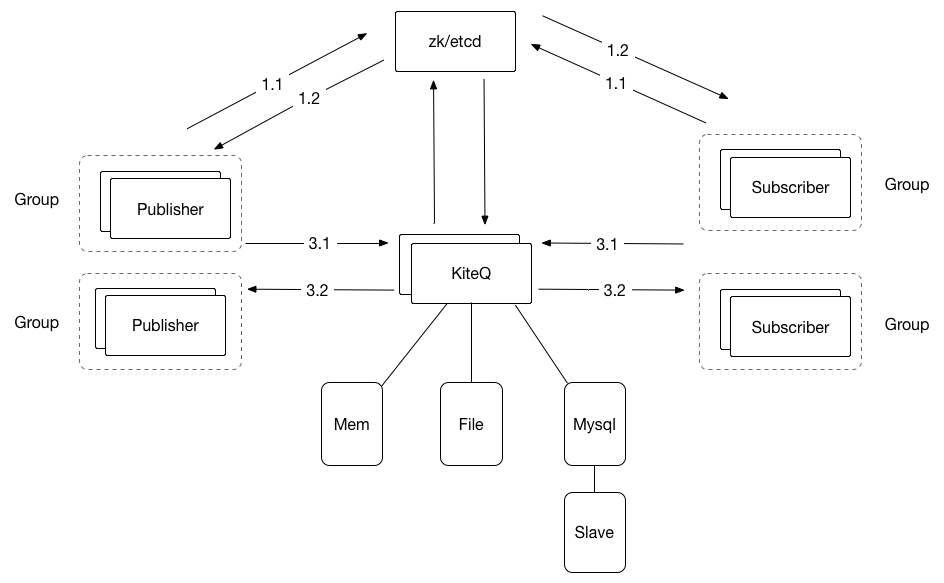
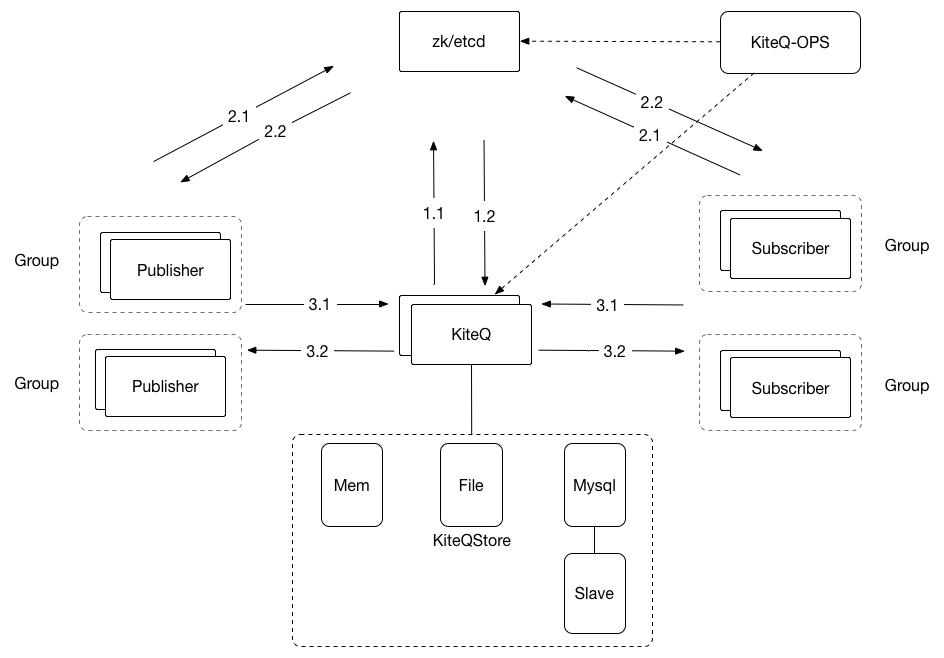
modify readme 	modified:   README.md 	modified:   doc/kiteq_arch.graffle 	modified:   doc/kiteq_arch.png

diff --git a/README.md b/README.md
@@ -36,27 +36,42 @@ KiteQ ![image](./doc/logo.jpg)
     * Producer : 消息的发送方
     * Topic: 消息的主题比如 Trade则为消息主题，一般可以定义为某种业务类型
     * MessageType: 第二级别的消息类型，比如Trade下存在支付成功的pay-succ-200的消息类型
-
-#### 架构图
-  ![image](./doc/kiteq_arch.png)
-
+    
 #### Zookeeper数据结构
         KiteServer : /kiteq/server/${topic}/ip:port
         Producer   : /kiteq/pub/${topic}/${groupId}/ip:port
         Consumer   : /kiteq/sub/${topic}/${groupId}-bind/#$data(bind)
 
-##### 流程：
-    1. KiteQ启动会将自己可以接受和投递的Topics列表给到zookeeper
-    2. KiteQ拉取Zookeeper上的Topics下的订阅关系(Bingding:订阅方推送上来的订阅消息信息)。
-    3. Consumer推送自己需要订阅的Topic+messageType的消息的订阅关系(Binding)到Zookeeper
-    4. Consumer拉取当前提供推送Topics消息的KiteQ地址列表，并发起TCP长连接
-    5. Producer推送自己可以发布消息Topics列表到Zookeeper
-    6. Producer拉取当前提供接受Topics消息的KiteQ地址列表，并发起TCP长连接
-
 ##### 订阅方式: 
     Direct (直接订阅)： 明确的Topic+MessageType订阅消息
     Regx(正则式订阅):  Topic级别下，对MessageType进行正则匹配方式订阅消息
     Fanout(广播式订阅): Topic级别下，订阅所有的MessageType的消息
+
+#### 架构图
+  ![image](./doc/kiteq_arch.png)
+  
+  - 流程描述：
+    
+  KiteQ：
+  
+    1.1 KiteQ启动会推送本机可以支持的接收和投递的Topic到注册中心(zk/etcd) /kiteq/server节点，同时监听是否订阅本机支持Topic的订阅分组订阅关系变化
+    1.2 在订阅关系发生变化时，注册中心通过watch机制通知KiteQ更新本地的订阅关系，并可以提供对新增订阅分组的消息投递工作
+    
+ Producer：
+ 
+    2.1 Producer启动后将本应用需要发送的消息的Topic列表推送到注册中心 /kiteq/pub节点(这部分只是用来集中化管理publish的分组)
+    2.2 通过配置的消息Topic列表获取注册中心对应KiteQ节点的IP:Port，并增加watch观测KiteQ节点的变化，做本地KiteQ地址列表的变化
+    3.1 通过获取的IP:Port在本地发起TCP长连接，并保持固定周期的心跳
+    3.2 KiteQ对长连接验证授权完成后，返回连接建立成功，此后即可发布对应的消息了。
+    
+ Consumer:
+ 
+    2.1 Consumer启动后会将本分组所订阅的订阅关系Binding推送到注册中心/kiteq/sub节点。
+    2.2 通过本地订阅关系订阅的Topic列表获取注册中心对应KiteQ节点的IP:Port，并增加watch观测KiteQ节点的变化，做本地KiteQ地址列表的变化
+    3.1、3.2 与Producer一致，在3.2完成后，KiteQ会在有对应消息来到时，推送给本分组内的随机一台Consumer
+   
+    - 注：
+        发布订阅者没有绝对的角色区分。同一个分组既可以作为发布者也可以作为消息的订阅方。
 
 #####  两阶段提交：
     因为引入了异步投递方案，所以在有些场景下需要本地执行某个事务成功的时候，本条消息才可以被订阅方消费。
@@ -84,9 +99,7 @@ KiteQ ![image](./doc/logo.jpg)
             -logxml=./log.xml //log4go的配置
             -deliveryFirst=false //是否投递优先
 
-        toml配置启动（推荐）
-            ./kiteq -clusterName=集群名称 -configPath=配置文件路径
-            文件样例见[conf/cluster.toml]
+
 
 ##### 启动客户端：
 参考：github.com/blackbeans/kiteq-client-go
